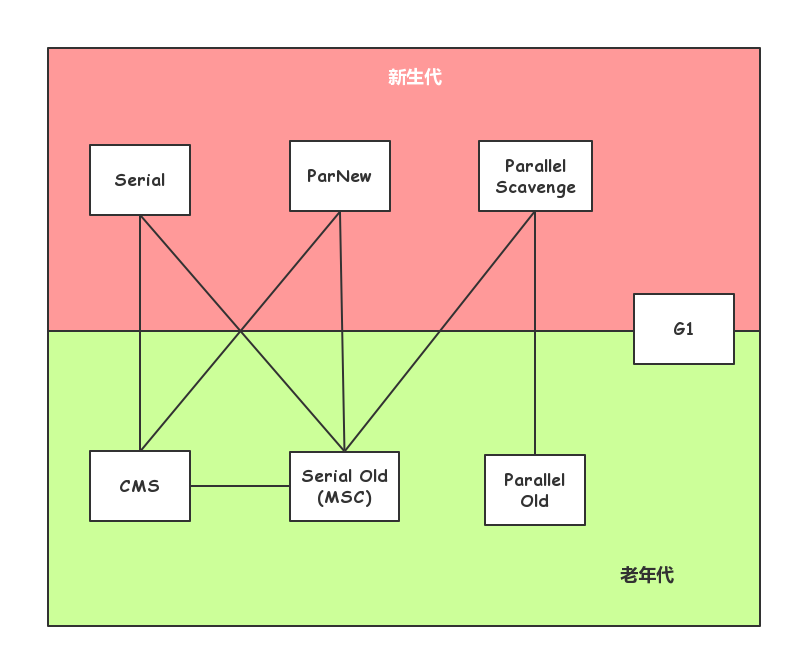
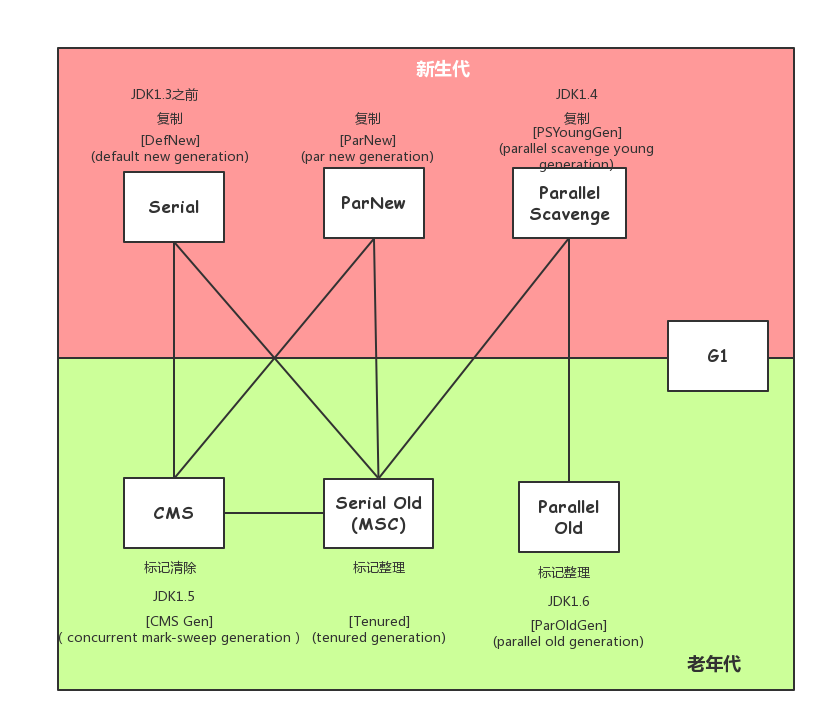
Garbage Collectors

Changed region(s): [[0.0606, 0.0608, 0.9697, 0.9726], [0.3939, 0.8511, 0.5455, 0.9119]]

diff --git a/readme.md b/readme.md
@@ -137,6 +137,25 @@ JDK 1.8 元数据区大小
     4. 可预测停顿
 
 
+| 参数 | 描述 |
+| ------ | ------- |
+| UseSerialGC | Client模式下的默认值, Serial + Serial Old|
+| UseParNewGC | ParNew + Serial Old|
+| UseConcMarkSweepGC | ParNew + CMS + Serial Old(Concurrent Mode Failure失败后的后备收集器)|
+| UseParallelGC | Server模式下的默认值, Parallel Scavenge + Serial Old |
+| UseParallelOldGC | Parallel Scavenge + Parallel Old (JDK 1.8 Server 默认)|
+| SurvivorRatio | Eden与Survivor比例 默认为8 |
+| PretenureSizeThreshold | 直接晋升老年代对象的大小 |
+| MaxTenuringThreshold | 晋升到老年代对象的年龄 |
+| UseAdaptiveSizePolicy | 动态调整Java堆各个区域的大小以及进入老年代的年龄 |
+| HandlePromotionFailure | 是否允许分配担保失败, 老年代剩余空间无法应对新生代的整个Eden和Survivor区的所有对象都存活的情况 |
+| ParallelGCThreads | 并行GC回收的线程数 |
+| GCTimeRatio | GC时间占总时间的比率, 默认为99, 1%的GC时间, 在Parallel Scavenge时生效 |
+| MaxGCPauseMillis | GC最大停顿时间, 在Parallel Scavenge时生效 |
+| CMSInitiatingOccupancyFraction | GC发起占有比例, 老年代空间被使用多少后触发垃圾收集。默认68%|
+| UseCMSCompactAtFullCollection | CMS收集器在完成垃圾收集后是否要进行一次内存碎片整理 |
+| CMSFullGCsBeforeCompaction | 若干次垃圾收集后启动一次碎片整理 |
+
 ### 3.5 内存分配与回收策略
 1. 对象优先在Eden分配
 
